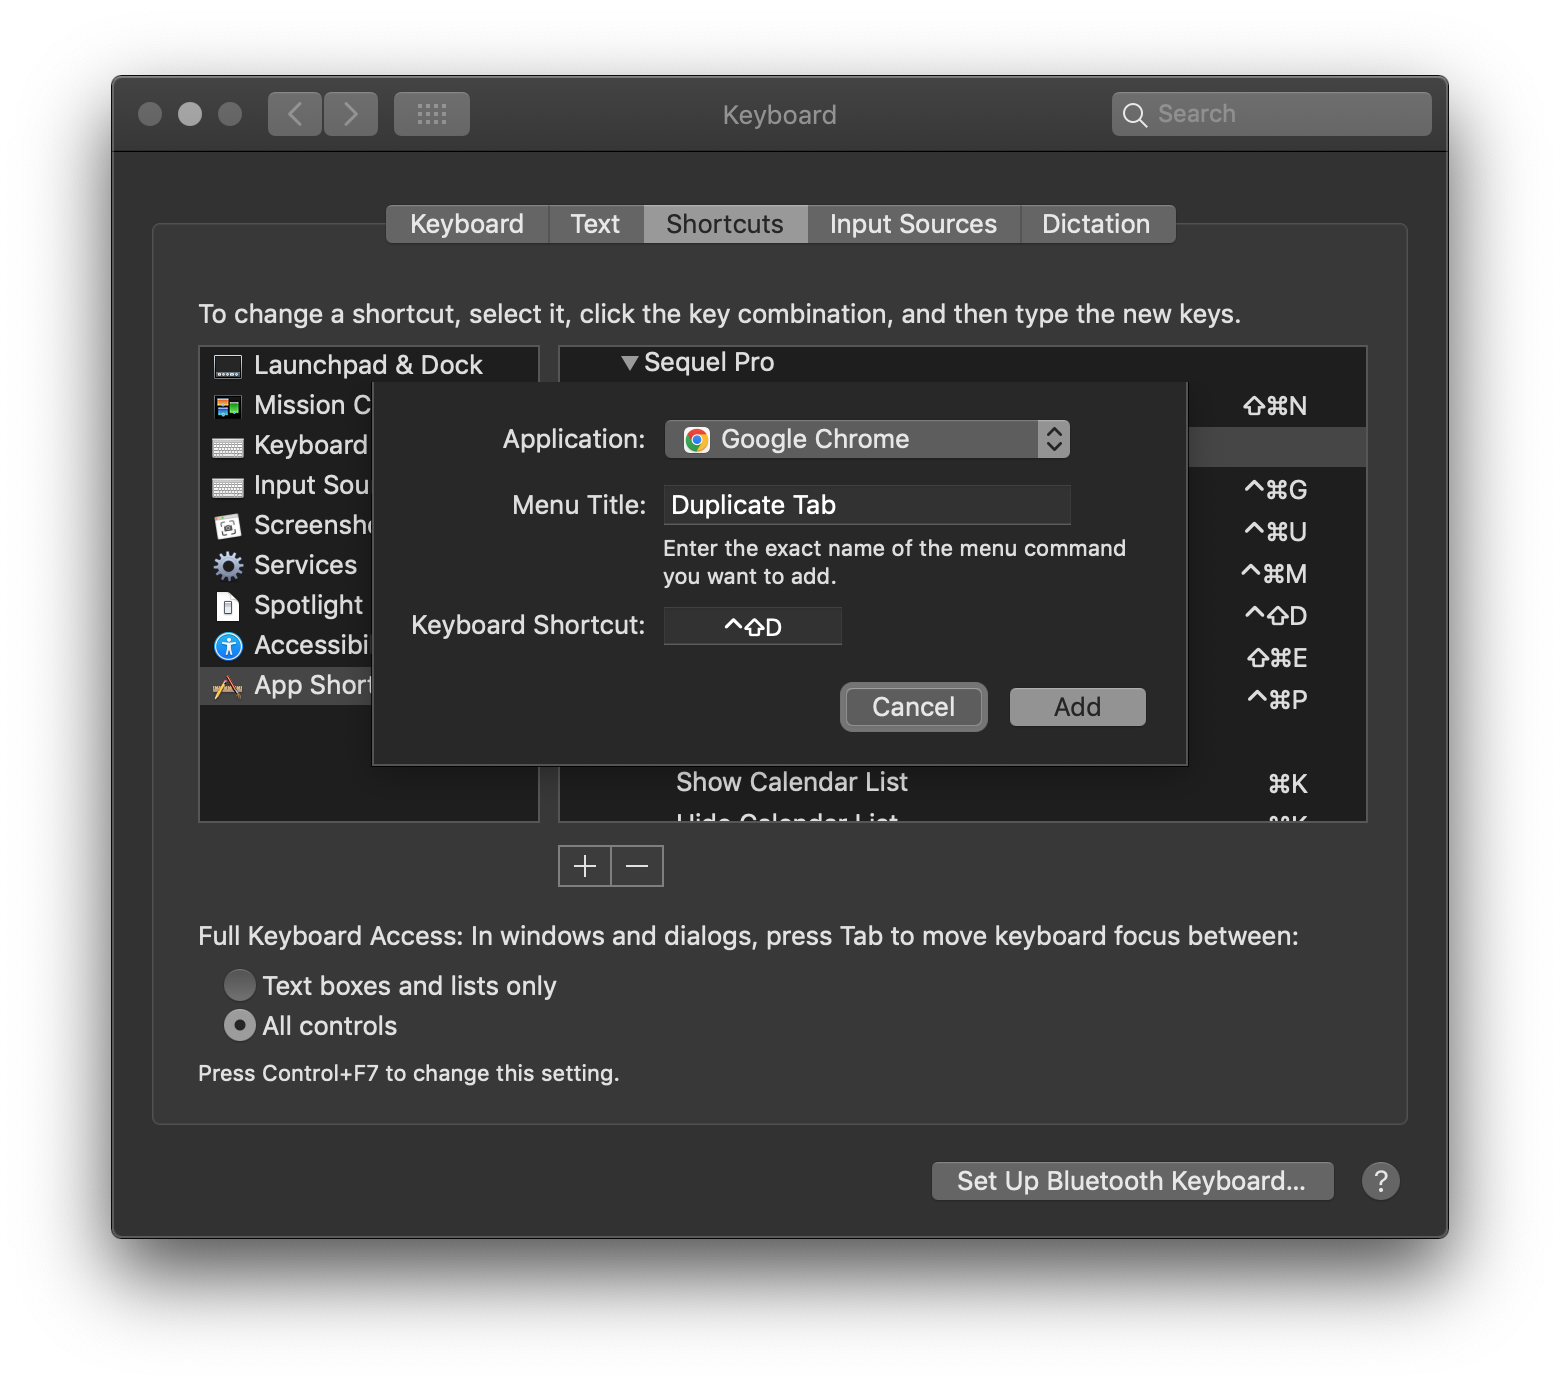
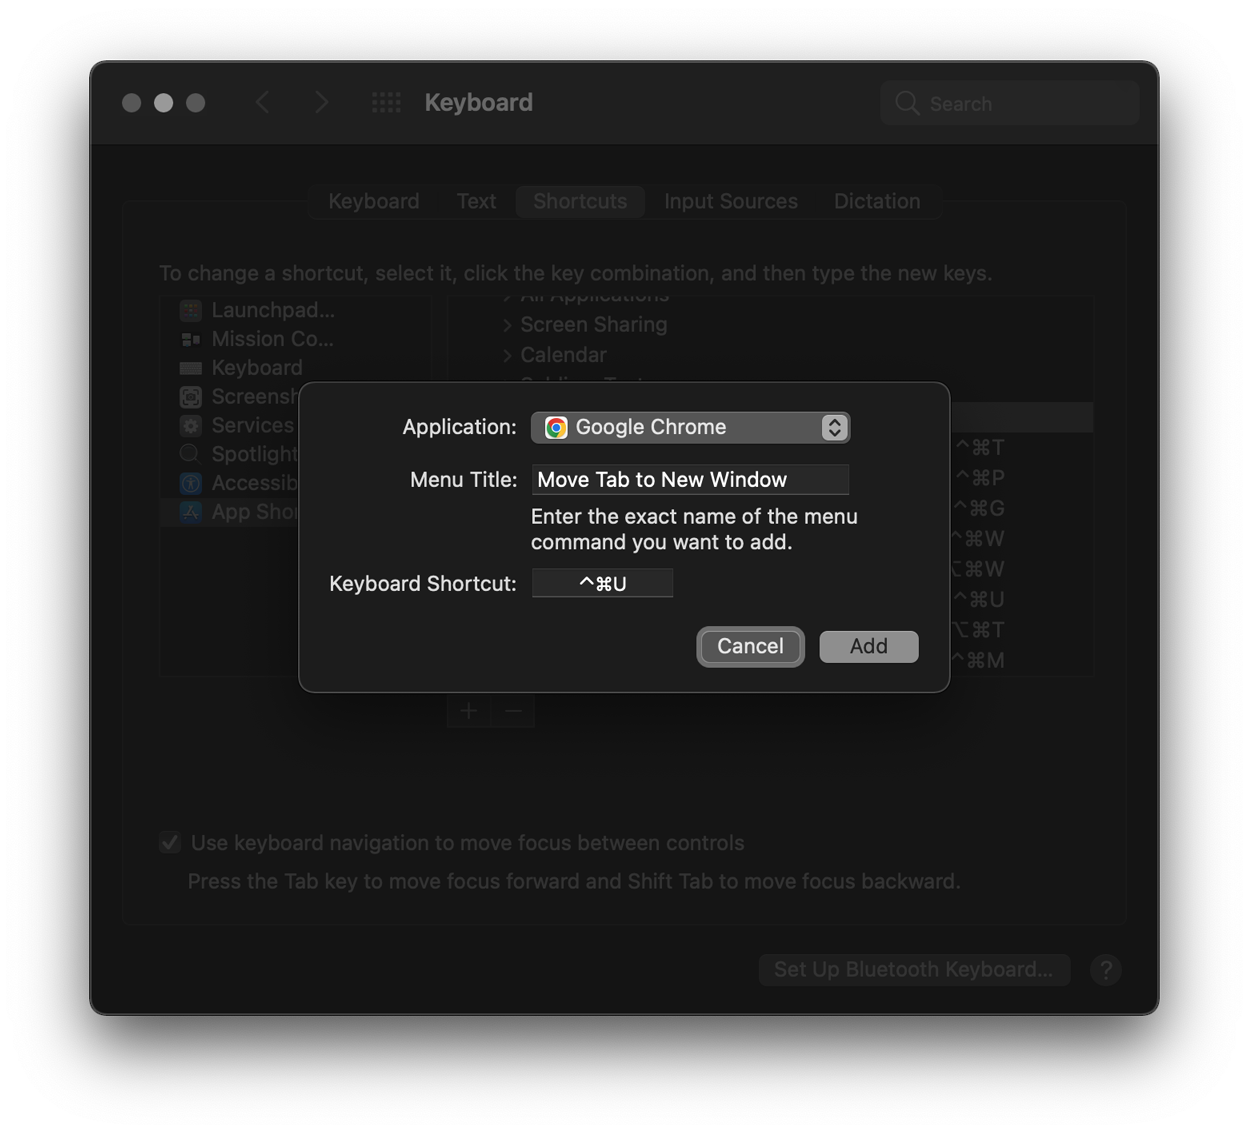
chrome tabs post layout

diff --git a/_sass/content.scss b/_sass/content.scss
@@ -47,7 +47,7 @@
 			@include full-bleed;
 		}
 
-		&.screen {
+		&.screenshot {
 			margin-bottom: calc(-1 * var(--space-medium));
 			margin-top: 0;
 		}
@@ -75,28 +75,46 @@
 		& tr {
 			display: block;
 
+			&:not(:last-child) {
+				margin-bottom: var(--space-small);
+			}
+
 			@media #{$tablet} {
 				display: table-row;
+				margin: 0;
 			}
 		}
 
 		& td {
 			display: block;
 			padding: var(--space-xsmall) var(--space-small);
+			text-align: center;
+			text-wrap: balance;
 
 			@media #{$tablet} {
 				display: table-cell;
+				padding: var(--space-xsmall) var(--space-default);
+				text-align: unset;
+
+				&:last-child {
+					text-align: right;
+				}
 			}
 		}
 	}
 
-	// All code blocks.
+	// All inline and fenced code blocks.
 	& .highlighter-rouge {
 		background: var(--c-site-header);
 		border-radius: var(--space-xsmall);
 		box-shadow: 0 0 3px -1px var(--c-text);
-		font-size: var(--fs-small);
+		font-size: var(--fs-xsmall);
 		padding: 4px 8px;
+
+		&:is(code) {
+			display: inline-block;
+			margin-bottom: var(--space-xsmall);
+		}
 	}
 
 	// Fenced code blocks.

diff --git a/_sass/mixins.scss b/_sass/mixins.scss
@@ -64,18 +64,10 @@
 	display: grid;
 	gap: var(--space-small);
 	grid-template-columns: repeat(auto-fill, minmax(8rem, 1fr));
-	margin-bottom: calc(-1 * var(--space-small));
 
 	@media #{$tablet} {
 		display: flex;
 		flex-wrap: wrap;
-	}
-
-	& li {
-
-		@media #{$tablet} {
-			min-width: 6rem;
-		}
 	}
 
 	& a {
@@ -86,13 +78,14 @@
 		letter-spacing: 0.033em;
 		line-height: 1;
 		overflow: hidden;
-		padding: 1rem var(--space-large);
+		padding: var(--space-default) var(--space-medium);
 		text-align: center;
 		text-transform: uppercase;
 		white-space: nowrap;
 
 		@media #{$tablet} {
-			padding: var(--space-small) var(--space-large);
+			padding: var(--space-small) var(--space-medium);
+			min-width: 8rem;
 		}
 	}
 }

diff --git a/_sass/includes/site-header.scss b/_sass/includes/site-header.scss
@@ -4,7 +4,7 @@
 	color: var(--c-text);
 	display: flex;
 	height: var(--size-site-header);
-	padding: 1rem var(--space-medium);
+	padding: var(--space-default) var(--space-medium);
 	position: relative;
 	width: var(--viewport-width);
 	z-index: 10;
@@ -44,7 +44,7 @@
 .site-header__home-link {
 	align-items: center;
 	display: flex;
-	margin: 0 1rem 0 0;
+	margin: 0 var(--space-default) 0 0;
 
 	&:hover,
 	&:focus {
@@ -152,7 +152,7 @@
 	@media #{$desktop} {
 		border-bottom: none;
 		font-size: var(--fs-medium);
-		margin: 0 0 0 1rem;
+		margin: 0 0 0 var(--space-default);
 		padding: 0;
 	}
 }

diff --git a/_sass/base.scss b/_sass/base.scss
@@ -53,7 +53,7 @@ h3,
 h4,
 h5,
 h6 {
-	margin: 0 0 1rem;
+	margin: 0 0 var(--space-default);
 	font-weight: 600;
 }
 
@@ -69,12 +69,12 @@ h1 {
 
 p {
 	line-height: var(--lh-medium);
-	margin: 0 0 1rem;
+	margin: 0 0 var(--space-medium);
 }
 
 svg {
 	display: inline-block;
-	min-height: 1rem;
-	min-width: 1rem;
+	min-height: var(--space-default);
+	min-width: var(--space-default);
 	vertical-align: text-bottom;
 }

diff --git a/_sass/variables.scss b/_sass/variables.scss
@@ -36,6 +36,7 @@
 	--space-xxsmall: 0.25rem; // 4px
 	--space-xsmall: 0.5rem; // 8px
 	--space-small: 0.75rem; // 12px
+	--space-default: 1rem; // 16px
 	--space-medium: 1.5rem; // 24px
 	--space-large: 3rem; // 48px
 	--space-xlarge: 4.5rem; // 72px

diff --git a/_sass/includes/post-item.scss b/_sass/includes/post-item.scss
@@ -26,7 +26,7 @@
 .post-item__date {
 	color: var(--color-venus);
 	display: block;
-	font-size: 1rem;
+	font-size: var(--fs-xsmall);
 	font-weight: bold;
 	line-height: var(--lh-xlarge);
 	margin-bottom: var(--space-xxsmall);

diff --git a/_posts/2023-09-16-chrome-tabs.md b/_posts/2023-09-16-chrome-tabs.md
@@ -5,13 +5,11 @@ topic: chrome tabs
 image: chrome-tabs-menu.png
 ---
 
-Firefox is my main web browser for casual reading & browsing. But when I need to get work done, I switch back to Chrome. Tab groups are crucial for keeping my development workflows untangled.
+Firefox is my browser for casual reading & browsing but when I need to get work done, I switch back to Chrome. Tab groups are crucial for keeping my development workflows untangled.
 
-I prefer to have as few tabs open as possible, and I always want to be able to find the one I need. Chrome's tab groups, along with quickly pinning, undocking, and duplicating tabs is indispensable during project management and engineering.
+I prefer to have as few tabs open as possible, and I always want to be able to find the one I need. Chrome's tab groups, along with quickly pinning, undocking, duplicating, and searching tabs is indispensable during project management and engineering.
 
-Unfortunately Chrome doesn't ship with keyboard shortcuts for the options in the Tab menu. Eventually I decided to use the macOS System Preferences to create my own.
-
-![macOS Keyboard Shortcuts](/assets/images/keyboard-shortcuts-panel.png){:class="screenshot"}
+Unfortunately Chrome doesn't ship with keyboard shortcuts for the options in the Tab menu. After leaving the home row one too many times, I eventually decided to use the macOS System Preferences to create my own.
 
 1. Open the Shortcuts tab inside the Keyboard panel.
 2. To add new shortcuts to Chrome, start by clicking the create new shortcut button.
@@ -19,21 +17,20 @@ Unfortunately Chrome doesn't ship with keyboard shortcuts for the options in the
 
 ![macOS Keyboard Shortcuts](/assets/images/add-app-shortcut.png){:class="screenshot"}
 
-I always add these shortcuts whenever I set up Chrome.
+Whenever I'm setting up Chrome for the first time, I add these shortcuts:
 
-The pin tabs option lets me hide tabs that I to keep open but will rarely check. Things like email inboxes, calendars, task lists, or deploys & builds for example.
+| New Tab to the Right | `ctrl` + `cmd` + `t` |
+| Duplicate Tab | `ctrl` + `alt` + `cmd` + `t` |
+| Pin Tab | `ctrl` + `cmd` + `p` |
+| Group Tab | `ctrl` + `cmd` + `g` |
+| Close Other Tabs | `ctrl` + `cmd` + `w` |
+| Close Tabs to the Right | `ctrl` + `alt` + `cmd` + `w` |
+| Move Tab to New Window | `ctrl` + `cmd` + `u` |
 
-Tab groups organize your development and project management. I use them to collect documentation, task information, different testing environments, back & front-end views, or whatever else I need into its own tab group.
+Pinning tabs lets me hide things that I to keep open but will rarely check: inboxes, task lists, or deploys & builds for example.
 
-Undocking tabs with the "Move Tab to New Window" shortcut pops them out into a separate window. This a big help when you're context switching, comparing views, checking for full-screen details, when creating a new task, and more.
+Groups organize all the tabs from your workflow. I use them to collect JS documentation, task information, testing environments, back & front-end views, or whatever else I need to organize into a group.
 
-Set a duplicate tab shortcut, you'll use it every once in a while. The "New Tab to the Right" shortcut is different from just "New Tab" because it creates the tab to the right of the current one, instead of at the end of the tab bar.
+Undocking tabs with the "Move Tab to New Window" shortcut pops them out into a separate window. This a big help when you're context switching, comparing views, checking for full-screen details, and more.
 
-| New Tab to the Right | `ctrl + cmd + t` |
-| Duplicate Tab | `ctrl + cmd + d` |
-| Pin Tab | `ctrl + cmd + p` |
-| Group Tab | `ctrl + cmd + g` |
-| Close Other Tabs | `ctrl + cmd + w` |
-| Move Tab to New Window | `ctrl + cmd + u` |
-
-Adding shorts doesn't just make it easier to use the Tab menu's options. Making these commands available with keyboard control means you'll use them more often. It's one less thing you need to reach for your mouse to control, which is always appreciated.
+Adding shortcuts doesn't just make it easier to use the Tab menu's options. Making these available from the keyboard means you'll use them more often. Plus it's one less reason to reach for your mouse, which is always appreciated.
